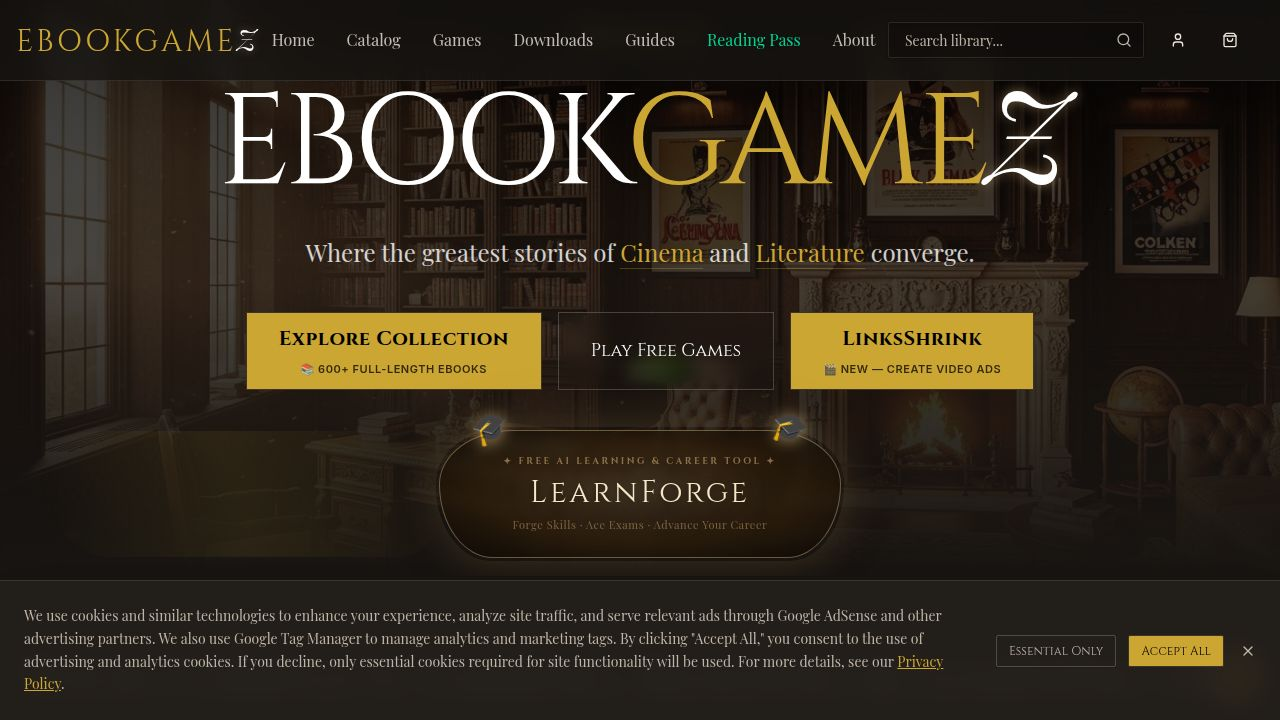
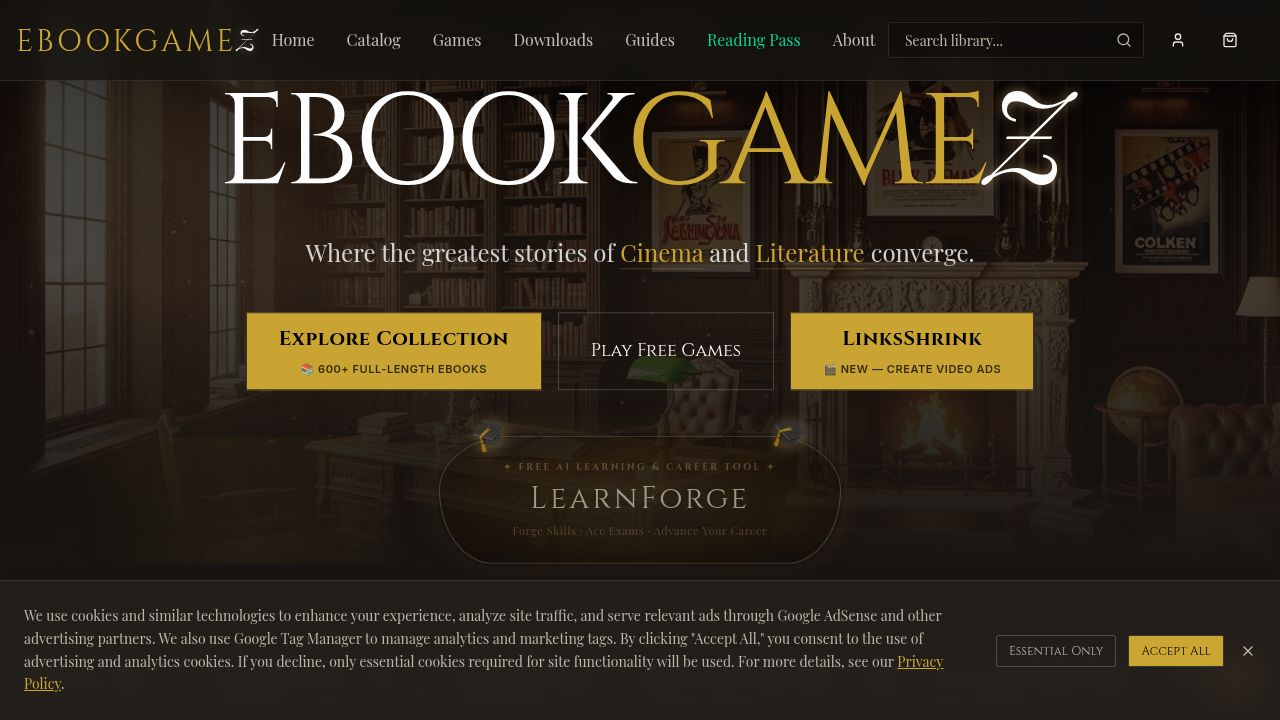
Task #94: Stop re-checking already-migrated covers on every restart
Problem: fixLocalCoverPaths() in server/index.ts queried both un-migrated
(/uploads/covers/%) AND already-migrated (/objstore/covers/%) rows on every
server restart, then called ensureCoverPersisted() (an object-storage
existence check) for every single one — ~637 books + ~636 drafts of network
I/O every boot, even though most rows never change.

Fix: introduced needsVerification(url) helper — genuinely un-migrated
/uploads/covers/ URLs are always fully checked/migrated, but already-migrated
/objstore/covers/ URLs are only re-verified for a random 5% sample per run
(ALREADY_MIGRATED_SAMPLE_RATE), to still catch drift/corruption (e.g.
accidental bucket deletion) over successive restarts without paying full cost
every time. Applied to both the books loop and the drafts loop (cover_url,
background_url, and the published-book fallback lookup).

Startup log now reports skip counts, e.g.:
"fixLocalCoverPaths completed in 1423ms (637 books [603 already-migrated
skipped], 636 drafts [583 already-migrated skipped])"

Verified: restarted the app and confirmed via logs that the migration pass
dropped to ~1.4s with the large majority of already-migrated rows skipped,
while un-migrated rows would still be fully processed. No behavior change to
the un-migrated-row fixup path or to drift-catching over time (statistically,
all migrated rows still get re-verified periodically across restarts).

No deviations from the task. Left the SQL query itself selecting both
[…]

diff --git a/server/index.ts b/server/index.ts
@@ -561,15 +561,28 @@ async function fixLocalCoverPaths() {
     const client = new pg.default.Client({ connectionString: process.env.DATABASE_URL });
     await client.connect();
 
+    // Sample rate for re-verifying already-migrated (/objstore/covers/) rows on each
+    // restart, to catch drift (e.g. accidental deletion from the bucket) without
+    // paying the full object-storage existence-check cost for every row every time.
+    // Genuinely un-migrated (/uploads/covers/) rows are always fully processed.
+    const ALREADY_MIGRATED_SAMPLE_RATE = 0.05;
+    const needsVerification = (url: string | null | undefined) =>
+      !!url && (url.startsWith("/uploads/covers/") || Math.random() < ALREADY_MIGRATED_SAMPLE_RATE);
+
     // Upload local cover files to object storage and normalize book paths
     const booksResult = await client.query(
       `SELECT id, title, cover_url FROM books
        WHERE cover_url LIKE '/uploads/covers/%' OR cover_url LIKE '/objstore/covers/%'`
     );
     let booksFixed = 0;
+    let booksSkipped = 0;
     {
       const CONCURRENCY = 40;
-      const queue = [...booksResult.rows];
+      const queue = booksResult.rows.filter((book) => {
+        if (needsVerification(book.cover_url)) return true;
+        booksSkipped++;
+        return false;
+      });
       const worker = async () => {
         while (queue.length > 0) {
           const book = queue.shift();
@@ -599,6 +612,7 @@ async function fixLocalCoverPaths() {
     );
 
     let draftsFixed = 0;
+    let draftsSkipped = 0;
     {
       const CONCURRENCY = 40;
       const queue = [...draftsResult.rows];
@@ -608,12 +622,15 @@ async function fixLocalCoverPaths() {
           if (!draft) break;
           let coverUrl = draft.cover_url as string | null;
           let backgroundUrl = draft.background_url as string | null;
+          let verified = false;
 
-          if (coverUrl) {
+          if (coverUrl && needsVerification(coverUrl)) {
             coverUrl = await ensureCoverPersisted(coverUrl);
+            verified = true;
           }
-          if (backgroundUrl) {
+          if (backgroundUrl && needsVerification(backgroundUrl)) {
             backgroundUrl = await ensureCoverPersisted(backgroundUrl);
+            verified = true;
           }
 
           if (draft.status === "published") {
@@ -622,7 +639,12 @@ async function fixLocalCoverPaths() {
             }
             if (!coverUrl && !backgroundUrl && draft.book_cover_url) {
               coverUrl = await ensureCoverPersisted(draft.book_cover_url);
+              verified = true;
             }
+          }
+
+          if (!verified) {
+            draftsSkipped++;
           }
 
           if (coverUrl !== draft.cover_url || backgroundUrl !== draft.background_url) {
@@ -641,7 +663,11 @@ async function fixLocalCoverPaths() {
     }
 
     await client.end();
-    console.log(`[Startup] fixLocalCoverPaths completed in ${Date.now() - startedAt}ms (${booksResult.rows.length} books, ${draftsResult.rows.length} drafts checked)`);
+    console.log(
+      `[Startup] fixLocalCoverPaths completed in ${Date.now() - startedAt}ms ` +
+      `(${booksResult.rows.length} books [${booksSkipped} already-migrated skipped], ` +
+      `${draftsResult.rows.length} drafts [${draftsSkipped} already-migrated skipped])`
+    );
   } catch (err: any) {
     console.error("[Startup] Error fixing local cover paths:", err.message);
   } finally {

diff --git a/.agents/memory/startup-migrations.md b/.agents/memory/startup-migrations.md
@@ -11,3 +11,5 @@ Any startup function that loops over DB rows and makes network calls (object sto
 1. Defer it with `setTimeout(fn, ms)` after `httpServer.listen()`/after other deferred migrations, never before.
 2. Add a module-level boolean re-entrancy guard (set true at start, false in `finally`) so a second deferred invocation (fast restart, duplicate timer) can't run concurrently against the same rows.
 3. Use a worker-pool/concurrency limiter (`Promise.all` over N workers pulling from a shared queue) instead of sequential awaits in a for-loop, when checking/uploading many rows.
+
+**Idempotent re-verification cost:** once a migration has confirmed a row is correctly persisted (e.g. `/objstore/...` URL), don't re-run the expensive external check (object-storage existence lookup) on it every single restart — that's pure wasted I/O at scale. Instead, always fully process genuinely un-migrated rows, but only re-verify a small random sample (e.g. 5%) of already-migrated rows per run to catch drift/corruption over time. See `fixLocalCoverPaths` in `server/index.ts` for the pattern.